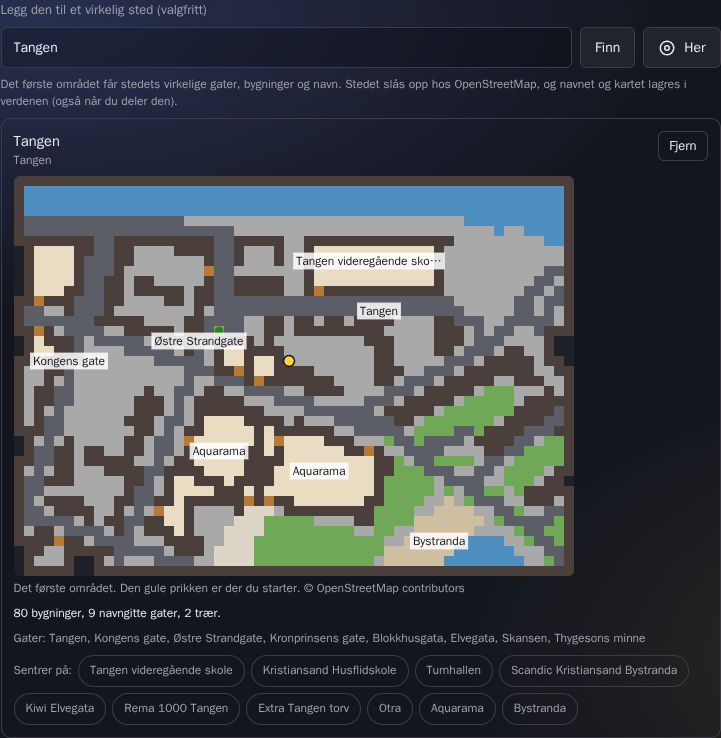
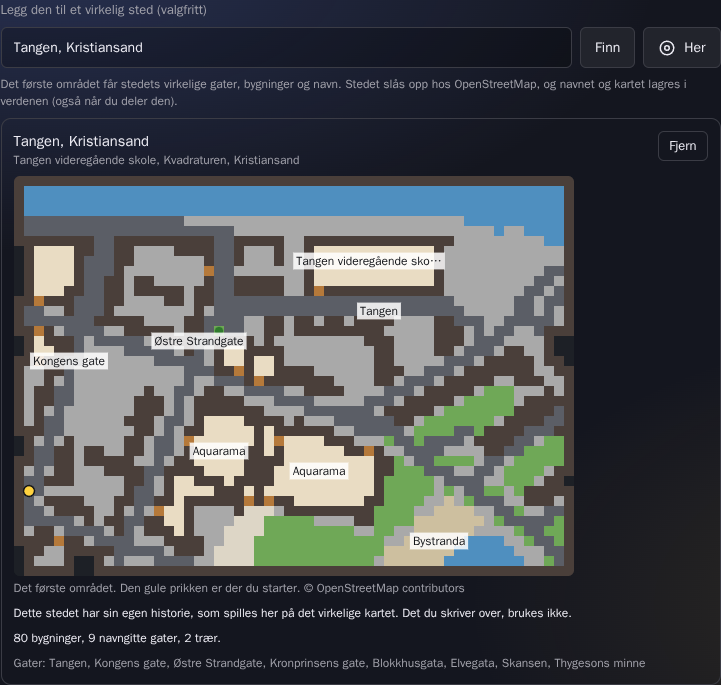
Places: Kuben at district scale with Kuben: Valget, Tangen bound to Tangen: Lærlingplassen
- Kuben example place: 400 m district patch, plays its own scenario, the way on is inside the school
- the story's building takes in the unnamed wings built onto it (Kuben is mapped as four buildings)
- Tangen example place: bound to its scenario, school as focus
- tests and screenshots updated

diff --git a/e2e/place.spec.ts b/e2e/place.spec.ts
@@ -149,7 +149,7 @@ for (const [id, query, lang, prompt] of [
   });
 }
 
-test('an example place needs no map service', async ({ page }) => {
+test('an example place needs no map service; Kuben at district scale plays Kuben: Valget', async ({ page }) => {
   const errors: string[] = [];
   page.on('pageerror', (e) => errors.push(String(e)));
   let asked = 0;
@@ -162,39 +162,74 @@ test('an example place needs no map service', async ({ page }) => {
   await page.locator('.aw-place-sample', { hasText: 'Kuben' }).click();
   await expect(page.locator('.aw-place-map')).toBeVisible({ timeout: 20000 });
   await page.waitForFunction(() => (document.querySelector('.aw-place-map') as HTMLCanvasElement | null)?.width === 560, null, { timeout: 20000 });
+  await expect(page.locator('.aw-place-world')).toBeVisible();
   await page.locator('.aw-place').scrollIntoViewIfNeeded();
-  await page.locator('.aw-place').screenshot({ path: `${SHOTS}/kuben-picker.png` });
-  await createAndPlay(page, 'Kuben valget');
+  await page.locator('.aw-place').screenshot({ path: `${SHOTS}/kuben-district-picker.png` });
+  await createAndPlay(page, 'en detektiv på et sukkerhotell');
   const info = await page.evaluate(() => {
     const s = window.__anyworld!.controller!.session;
-    return { generator: s.world.areas[0]!.generator, place: s.world.place?.name, attribution: s.world.place?.attribution };
+    const map = s.state.area.map;
+    const school = map.regions.filter((r) => r.name === 'Kuben videregående skole').sort((a, b) => b.size - a.size)[0];
+    return {
+      title: s.world.meta.title,
+      generator: s.world.areas[0]!.generator,
+      area: s.world.areas[0]!.name,
+      areas: s.world.areas.length,
+      scale: s.world.place?.patches[0]?.scale,
+      attribution: s.world.place?.attribution,
+      names: map.regions.map((r) => r.name).filter(Boolean),
+      school: school?.size ?? 0,
+      exitFromSchool: school ? Math.hypot(map.exit.x - school.centre.x, map.exit.y - school.centre.y) : 99,
+      actors: s.state.area.actors.map((a) => a.defId),
+    };
   });
-  expect(info).toEqual({ generator: 'place', place: 'Kuben videregående skole', attribution: '© OpenStreetMap contributors' });
+  expect(info).toMatchObject({ generator: 'place', scale: 'district', areas: 4, attribution: '© OpenStreetMap contributors' });
+  expect(info.title).toContain('Valget');
+  expect(info.area).toContain('Glassgata');
+  expect(info.names).toEqual(expect.arrayContaining(['Kuben videregående skole', 'Kabelgata', 'Østre Aker vei', 'Tårngata']));
+  // the school, with its wings, is one room, and the way on (the stairs down) is inside it
+  expect(info.school).toBeGreaterThan(80);
+  expect(info.exitFromSchool).toBeLessThan(12);
+  expect(info.actors).toEqual(expect.arrayContaining(['knut', 'hege', 'slushmaskinen']));
   expect(asked).toBe(0);
   await page.waitForTimeout(1200);
-  await page.screenshot({ path: `${SHOTS}/kuben-start.png` });
+  await expect.poll(() => page.locator('.ov-place').count()).toBeGreaterThan(3);
+  await page.screenshot({ path: `${SHOTS}/kuben-district-start.png` });
+  await page.evaluate(() => {
+    const c = window.__anyworld!.controller!;
+    const lead = Object.values(c.session.state.players)[0] as { seen?: number[] | Uint8Array };
+    if (lead?.seen) for (let i = 0; i < lead.seen.length; i++) lead.seen[i] = 2;
+  });
+  await page.keyboard.press('.');
+  await page.mouse.move(640, 400);
+  for (let i = 0; i < 12; i++) await page.mouse.wheel(0, 240);
+  await page.waitForTimeout(1800);
+  await page.screenshot({ path: `${SHOTS}/kuben-district-revealed.png` });
   expect(errors).toEqual([]);
 });
 
-test('a district-scale place: one room per building, names over the map', async ({ page }) => {
+test('a district-scale place: one room per building, names over the map; Tangen plays Tangen: Lærlingplassen', async ({ page }) => {
   const errors: string[] = [];
   page.on('pageerror', (e) => errors.push(String(e)));
   await prepare(page, {}, 'nb');
   await page.goto('/');
   await page.waitForFunction(() => document.body.dataset.ready === '1', null, { timeout: 60000 });
-  await page.locator('.aw-place-sample').getByText('Tangen', { exact: true }).click();
+  await page.locator('.aw-place-sample', { hasText: 'Tangen' }).click();
   await expect(page.locator('.aw-place-map')).toBeVisible({ timeout: 20000 });
   await page.waitForFunction(() => (document.querySelector('.aw-place-map') as HTMLCanvasElement | null)?.width === 560, null, { timeout: 20000 });
   await page.locator('.aw-place').scrollIntoViewIfNeeded();
   await page.locator('.aw-place').screenshot({ path: `${SHOTS}/tangen-district-picker.png` });
-  await createAndPlay(page, 'Tangen lærlingplassen');
+  await expect(page.locator('.aw-place-world')).toBeVisible();
+  await createAndPlay(page, 'en detektiv på et sukkerhotell');
   const info = await page.evaluate(() => {
     const s = window.__anyworld!.controller!.session;
     const map = s.state.area.map;
     const school = map.regions.find((r) => r.name === 'Tangen videregående skole');
-    return { scale: s.world.place?.patches[0]?.scale, names: map.regions.map((r) => r.name).filter(Boolean), school: school?.size ?? 0, doorsInSchool: 0 };
+    return { title: s.world.meta.title, exitFromSchool: school ? Math.hypot(map.exit.x - school.centre.x, map.exit.y - school.centre.y) : 99, scale: s.world.place?.patches[0]?.scale, names: map.regions.map((r) => r.name).filter(Boolean), school: school?.size ?? 0, doorsInSchool: 0 };
   });
   expect(info.scale).toBe('district');
+  expect(info.title).toContain('Lærlingplassen');
+  expect(info.exitFromSchool).toBeLessThan(8);
   expect(info.names).toEqual(expect.arrayContaining(['Tangen videregående skole', 'Aquarama', 'Scandic Kristiansand Bystranda', 'Bystranda', 'Østre Strandgate']));
   // the school is one room
   expect(info.school).toBeGreaterThan(30);

diff --git a/tests/mapgen/place.test.ts b/tests/mapgen/place.test.ts
@@ -161,23 +161,29 @@ describe('place generator on recorded places', () => {
     expect(Math.abs(roadShare(gen(patch, 1, 'small')) - roadShare(gen(patch, 1, 'large')))).toBeLessThan(0.08);
   });
 
-  it('a bundled district place with a focus: arrive by a street, the way on is inside that building', () => {
-    const file = JSON.parse(readFileSync('content/places/kkg.json', 'utf8')) as { world?: string; patch: unknown };
-    const patch = PlacePatchSchema.parse(file.patch);
-    expect(file.world).toBe('nb-kkg-talen');
-    expect(patch.scale).toBe('district');
-    expect(patch.focus).toBe('Kristiansand katedralskole Gimle');
-    for (const seed of SEEDS.slice(0, 20)) {
-      const map = gen(patch, seed);
-      expect(validateMap(map)).toEqual([]);
-      const school = map.regions.filter((r) => r.name === patch.focus).sort((a, b) => b.size - a.size)[0]!;
-      expect(school.size).toBeGreaterThan(30);
-      expect(Math.hypot(map.exit.x - school.centre.x, map.exit.y - school.centre.y)).toBeLessThan(12);
-      const start = map.tiles[map.start.y * map.width + map.start.x]!;
-      expect(['road', 'path']).toContain(start.surface);
-      expect(Math.hypot(map.start.x - map.exit.x, map.start.y - map.exit.y)).toBeGreaterThan(15);
-    }
-  });
+  for (const [id, world, focus, rooms] of [
+    ['kkg', 'nb-kkg-talen', 'Kristiansand katedralskole Gimle', 30],
+    ['kuben', 'nb-kuben-valget', 'Kuben videregående skole', 80],
+    ['tangen', 'nb-tangen-laerlingplassen', 'Tangen videregående skole', 30],
+  ] as const)
+    it(`a bundled district place with a focus (${id}): arrive by a street, the way on is inside that building`, () => {
+      const file = JSON.parse(readFileSync(`content/places/${id}.json`, 'utf8')) as { world?: string; patch: unknown };
+      const patch = PlacePatchSchema.parse(file.patch);
+      expect(file.world).toBe(world);
+      expect(patch.scale).toBe('district');
+      expect(patch.focus).toBe(focus);
+      for (const seed of SEEDS.slice(0, 20)) {
+        const map = gen(patch, seed);
+        expect(validateMap(map)).toEqual([]);
+        // the building, with the unnamed wings built onto it, is one room
+        const school = map.regions.filter((r) => r.name === focus).sort((a, b) => b.size - a.size)[0]!;
+        expect(school.size).toBeGreaterThan(rooms);
+        expect(Math.hypot(map.exit.x - school.centre.x, map.exit.y - school.centre.y)).toBeLessThan(12);
+        const start = map.tiles[map.start.y * map.width + map.start.x]!;
+        expect(['road', 'path']).toContain(start.surface);
+        expect(Math.hypot(map.start.x - map.exit.x, map.start.y - map.exit.y)).toBeGreaterThan(15);
+      }
+    });
 
   it('without its patch the area falls back to a town', () => {
     const plan = { ...makePlan('place'), patch: 'missing' };

diff --git a/src/engine/mapgen/generators/place.ts b/src/engine/mapgen/generators/place.ts
@@ -249,6 +249,33 @@ export function genPlace(ctx: GenContext): void {
       footprint[b] = Math.max(footprint[b]!, 0.01); // stays the "smaller" one: it keeps its tiles
     }
   }
+  if (district && patch.focus) {
+    // the building the story is about is one room: unnamed parts built onto it (wings mapped as
+    // separate buildings of the same kind, or of no kind) are taken into it
+    const seeds = new Set(order.filter((b) => buildings[b]!.name === patch.focus));
+    for (let changed = seeds.size > 0; changed; ) {
+      changed = false;
+      const into = new Map<number, number>();
+      for (let y = 1; y < H - 1; y++)
+        for (let x = 1; x < W - 1; x++) {
+          const s = owner[idx(x, y)]!;
+          if (!seeds.has(s)) continue;
+          for (const [dx, dy] of [[1, 0], [-1, 0], [0, 1], [0, -1]] as const) {
+            const o = owner[idx(x + dx, y + dy)]!;
+            if (o === -1 || o === s || seeds.has(o) || into.has(o)) continue;
+            const f = buildings[o]!;
+            if (!f.name && (!f.type || f.type === buildings[s]!.type)) into.set(o, s);
+          }
+        }
+      if (into.size) {
+        for (let i = 0; i < owner.length; i++) {
+          const to = into.get(owner[i]!);
+          if (to !== undefined) owner[i] = to;
+        }
+        changed = true;
+      }
+    }
+  }
   const own = (x: number, y: number) => (inside(x, y) ? owner[idx(x, y)]! : -1);
   const interior = new Map<number, number[]>();
   for (let y = 1; y < H - 1; y++)

diff --git a/tools/place-bundle.ts b/tools/place-bundle.ts
@@ -1,8 +1,8 @@
 /**
  * Builds the example places bundled with the client (content/places/<id>.json) from the recorded
  * fixtures (tests/fixtures/osm): the picker offers them without asking the map service.
- *   npx tsx tools/place-bundle.ts domkirken kuben placa-reial
- * Not tangen and kkg: those two are district-scale patches built from a wider fetch (docs/PLACE-PLAN.md §11);
+ *   npx tsx tools/place-bundle.ts domkirken placa-reial
+ * Not tangen, kkg and kuben: those are district-scale patches built from a wider fetch (docs/PLACE-PLAN.md §11);
  * this tool would replace them with street-scale ones.
  */
 import { mkdirSync, readFileSync, writeFileSync } from 'node:fs';

diff --git a/docs/PLACE-PLAN.md b/docs/PLACE-PLAN.md
@@ -330,8 +330,18 @@ Oddernes kirke are on the map). Two additions, both carried by the place file:
 
 Known mismatches: the first area is still called *Mellombygget* and its recorded intro speaks of being indoors;
 its indoor scenery (lockers, the wet floor) is scattered over the whole campus. Screenshots:
-`docs/progress/place/kkg-district-*.png`. The two district files are built by hand from a wider fetch;
-`tools/place-bundle.ts tangen kkg` would overwrite them with street-scale patches.
+`docs/progress/place/kkg-district-*.png`. The district files are built by hand from a wider fetch;
+`tools/place-bundle.ts tangen kkg kuben` would overwrite them with street-scale patches.
+
+**Kuben too (2026-11-11).** `content/places/kuben.json` is a district patch (400 m around the school at Økern)
+with `world: "nb-kuben-valget"` and the school as `focus`. Kuben is mapped as four buildings side by side (the
+named one, two unnamed school wings and the strip between them), which gave three corridor-thin rooms; on a
+district map the focus building now takes in the unnamed parts built onto it (same kind, or no kind), so the school
+is one room of about 135 tiles. Screenshots: `docs/progress/place/kuben-district-*.png`. The same mismatches as for
+KKG apply (the first area is still *Glassgata*, an indoor street).
+
+**Tangen bound as well (2026-11-11).** The Tangen example now has `world: "nb-tangen-laerlingplassen"` and the
+school as `focus`, like the other two school places.
 
 Map service: the main Overpass server was down for hours on 2026-11-10 (502). `overpass.openstreetmap.fr` answered
 from Node and is now the second endpoint, but it refused a request carrying a browser `Origin` header (403), so
